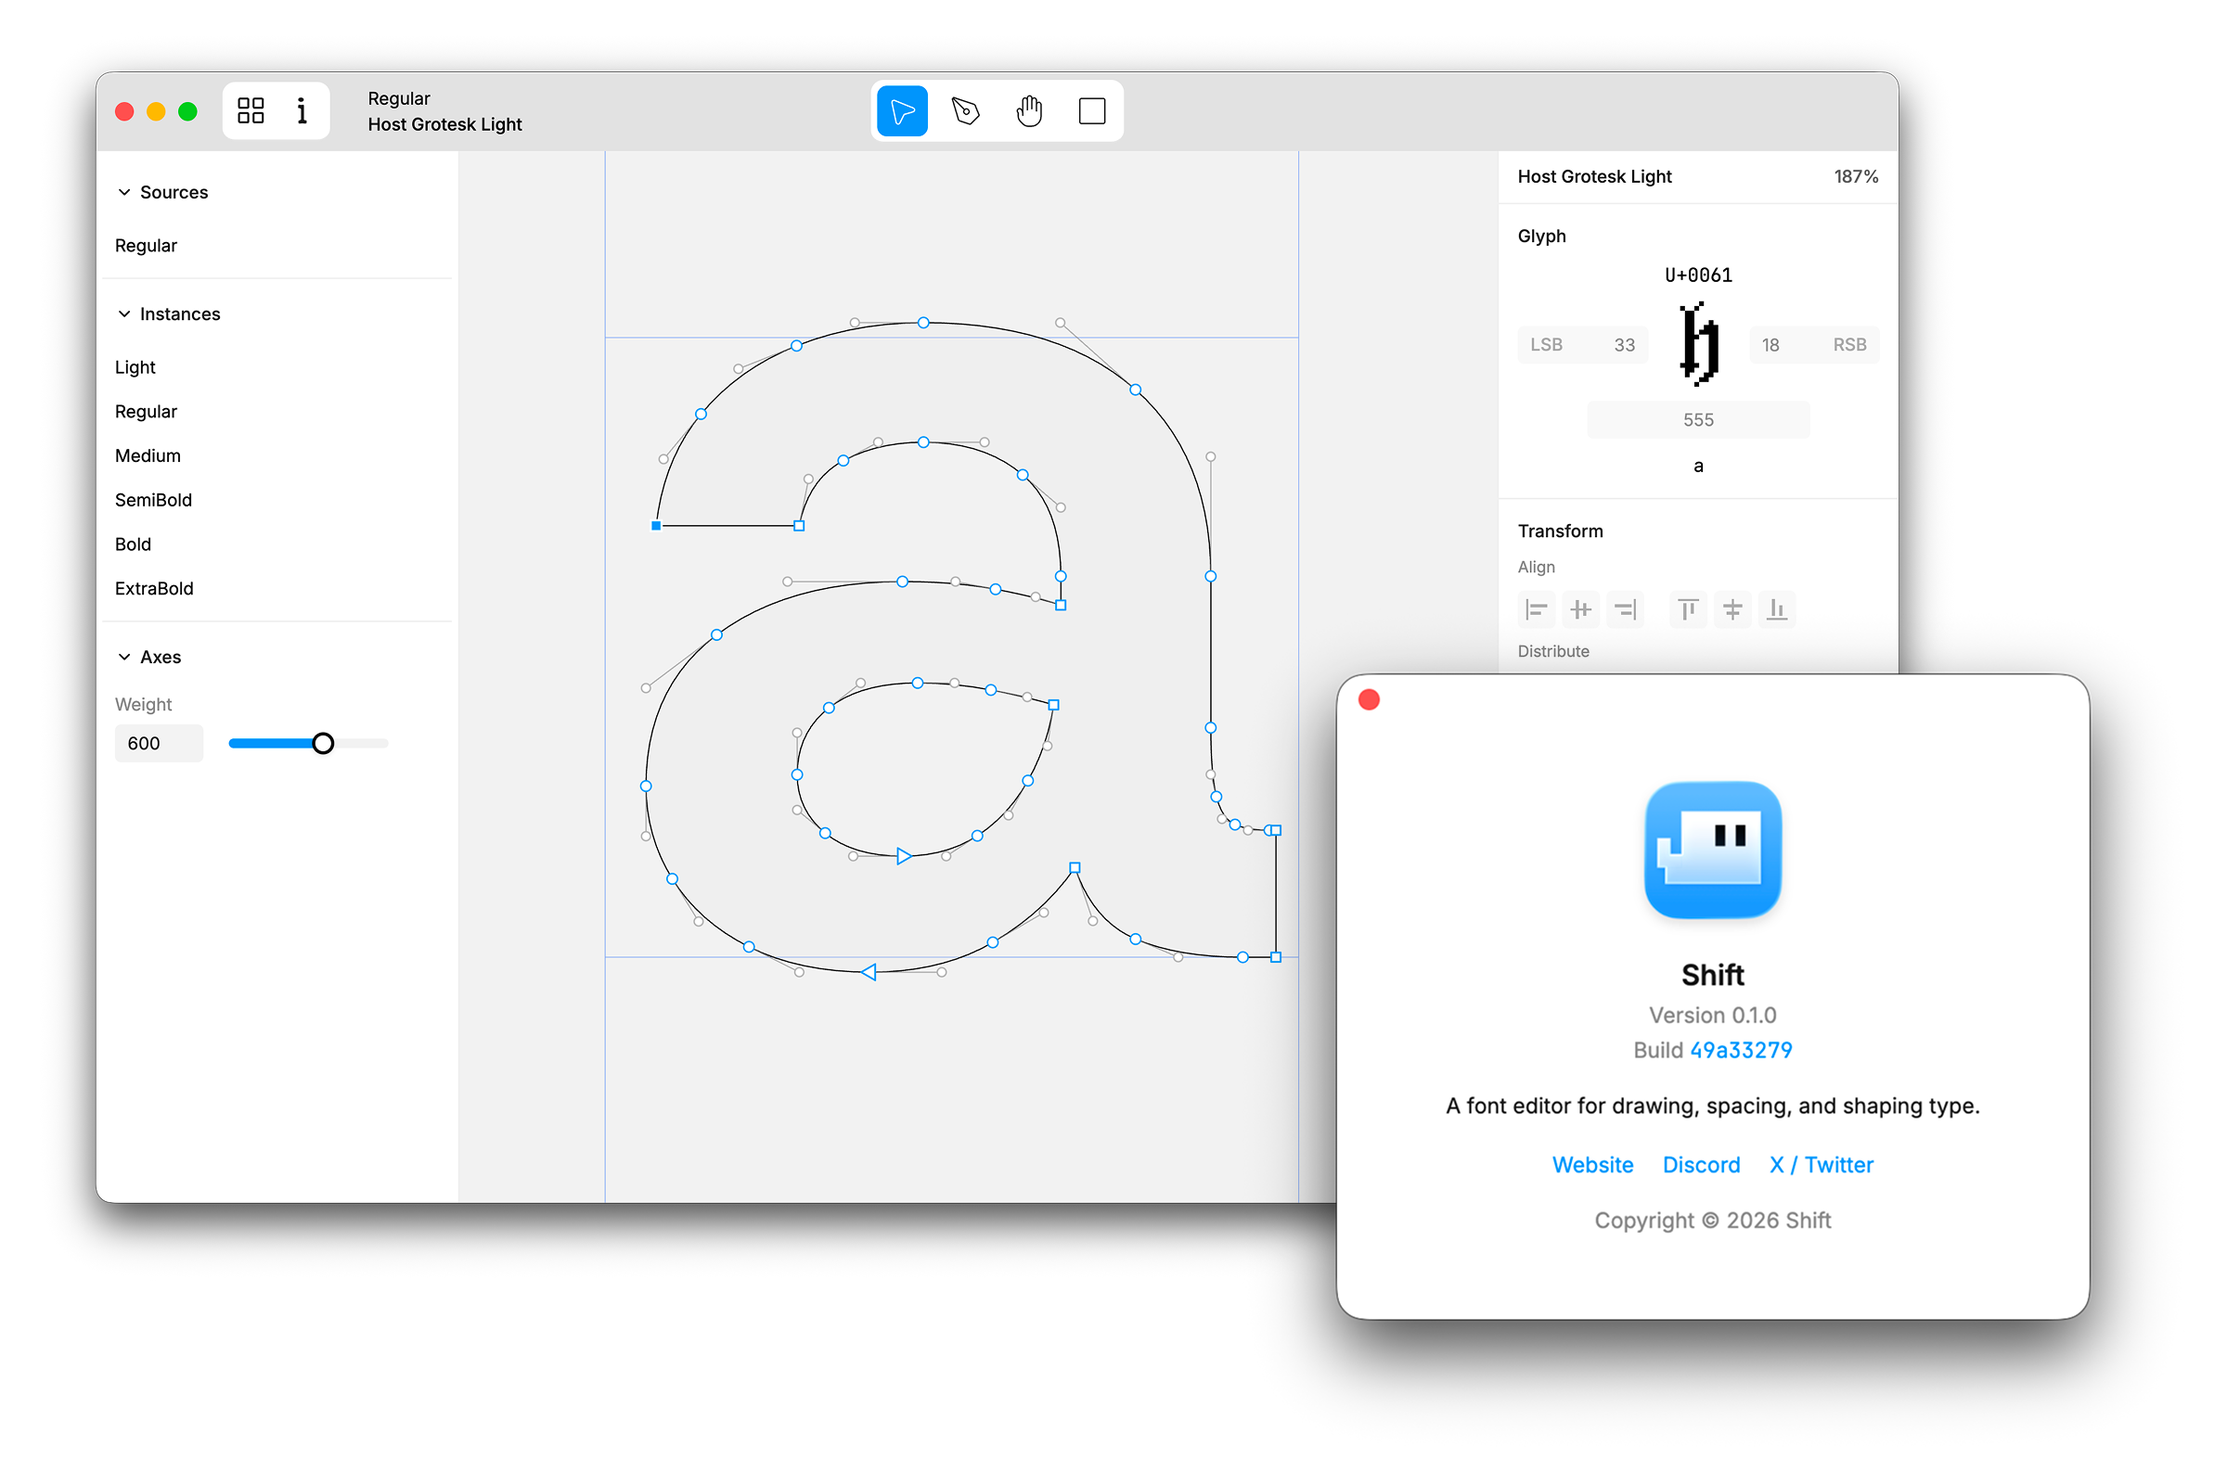
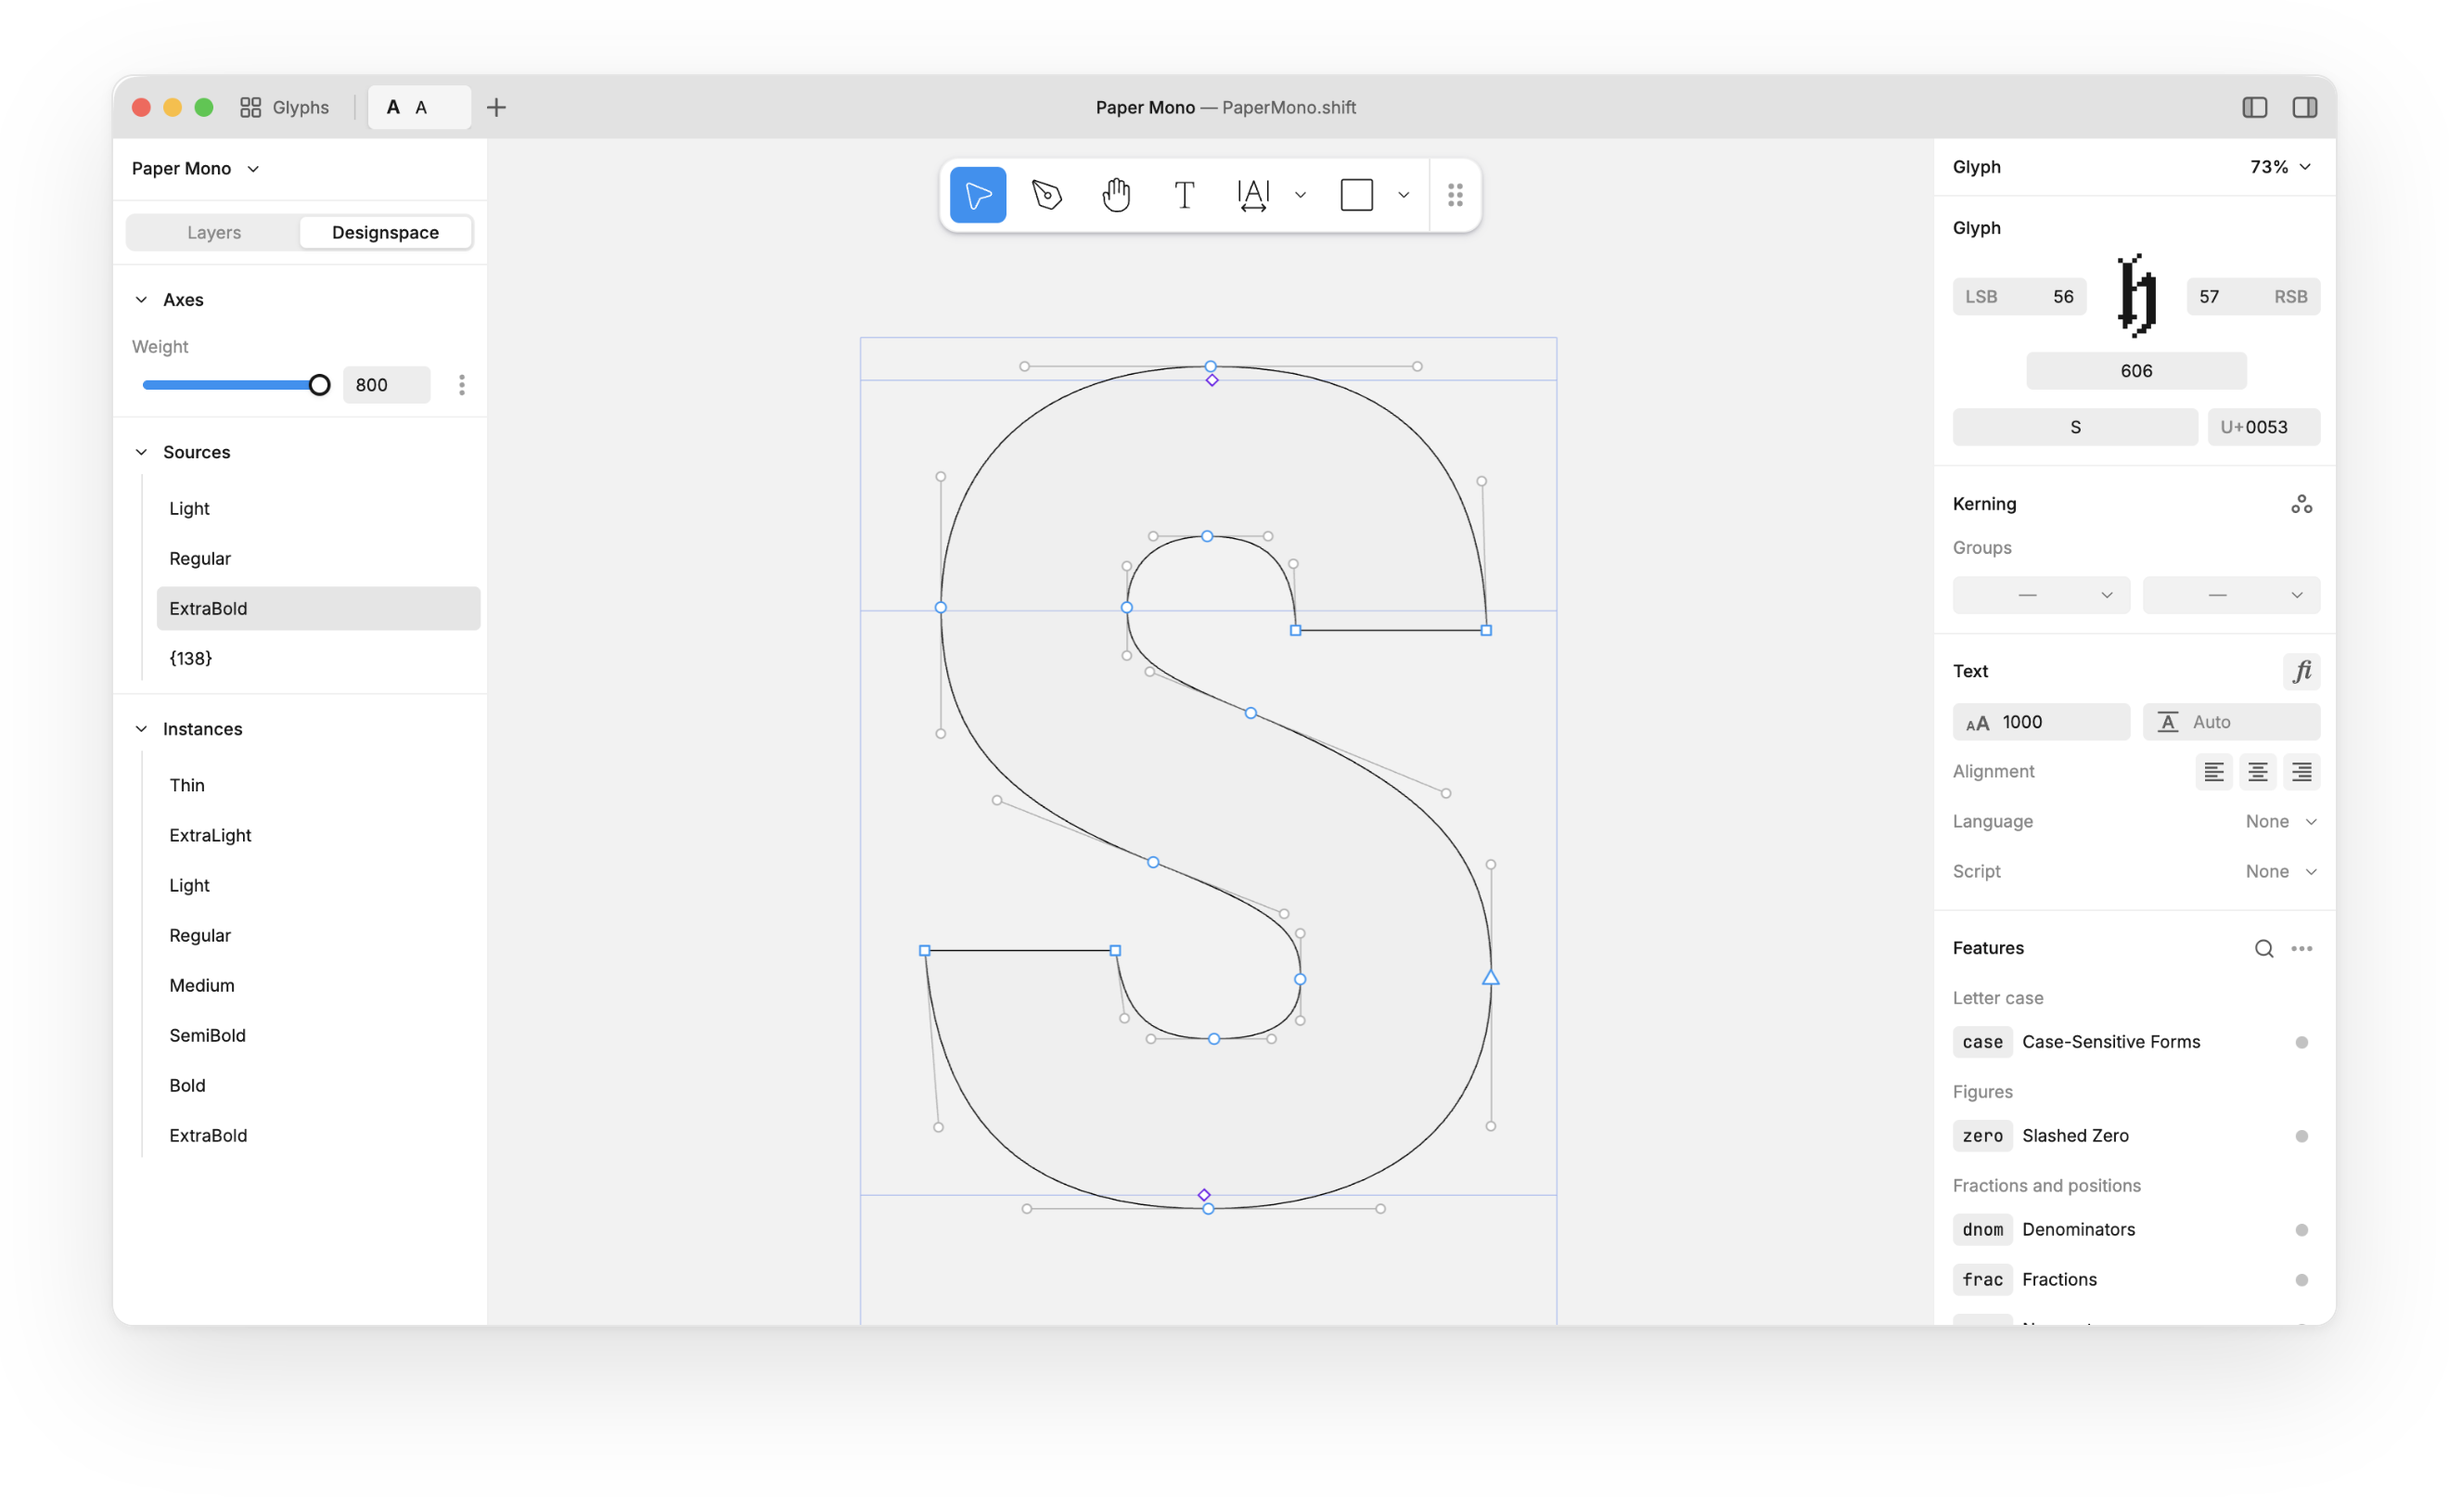
feat: show the 0.2.0 editor in the home page hero

diff --git a/src/app/(site)/page.tsx b/src/app/(site)/page.tsx
@@ -49,8 +49,8 @@ export default async function Home() {
         <Image
           src="/hero.png"
           alt="Shift font editor"
-          width={2400}
-          height={1600}
+          width={2640}
+          height={1620}
           className="-mx-6 h-auto w-[calc(100%+3rem)] max-w-none sm:mx-auto sm:w-full sm:max-w-[1200px]"
           sizes="(min-width: 1296px) 1200px, (min-width: 640px) calc(100vw - 6rem), 100vw"
           priority
